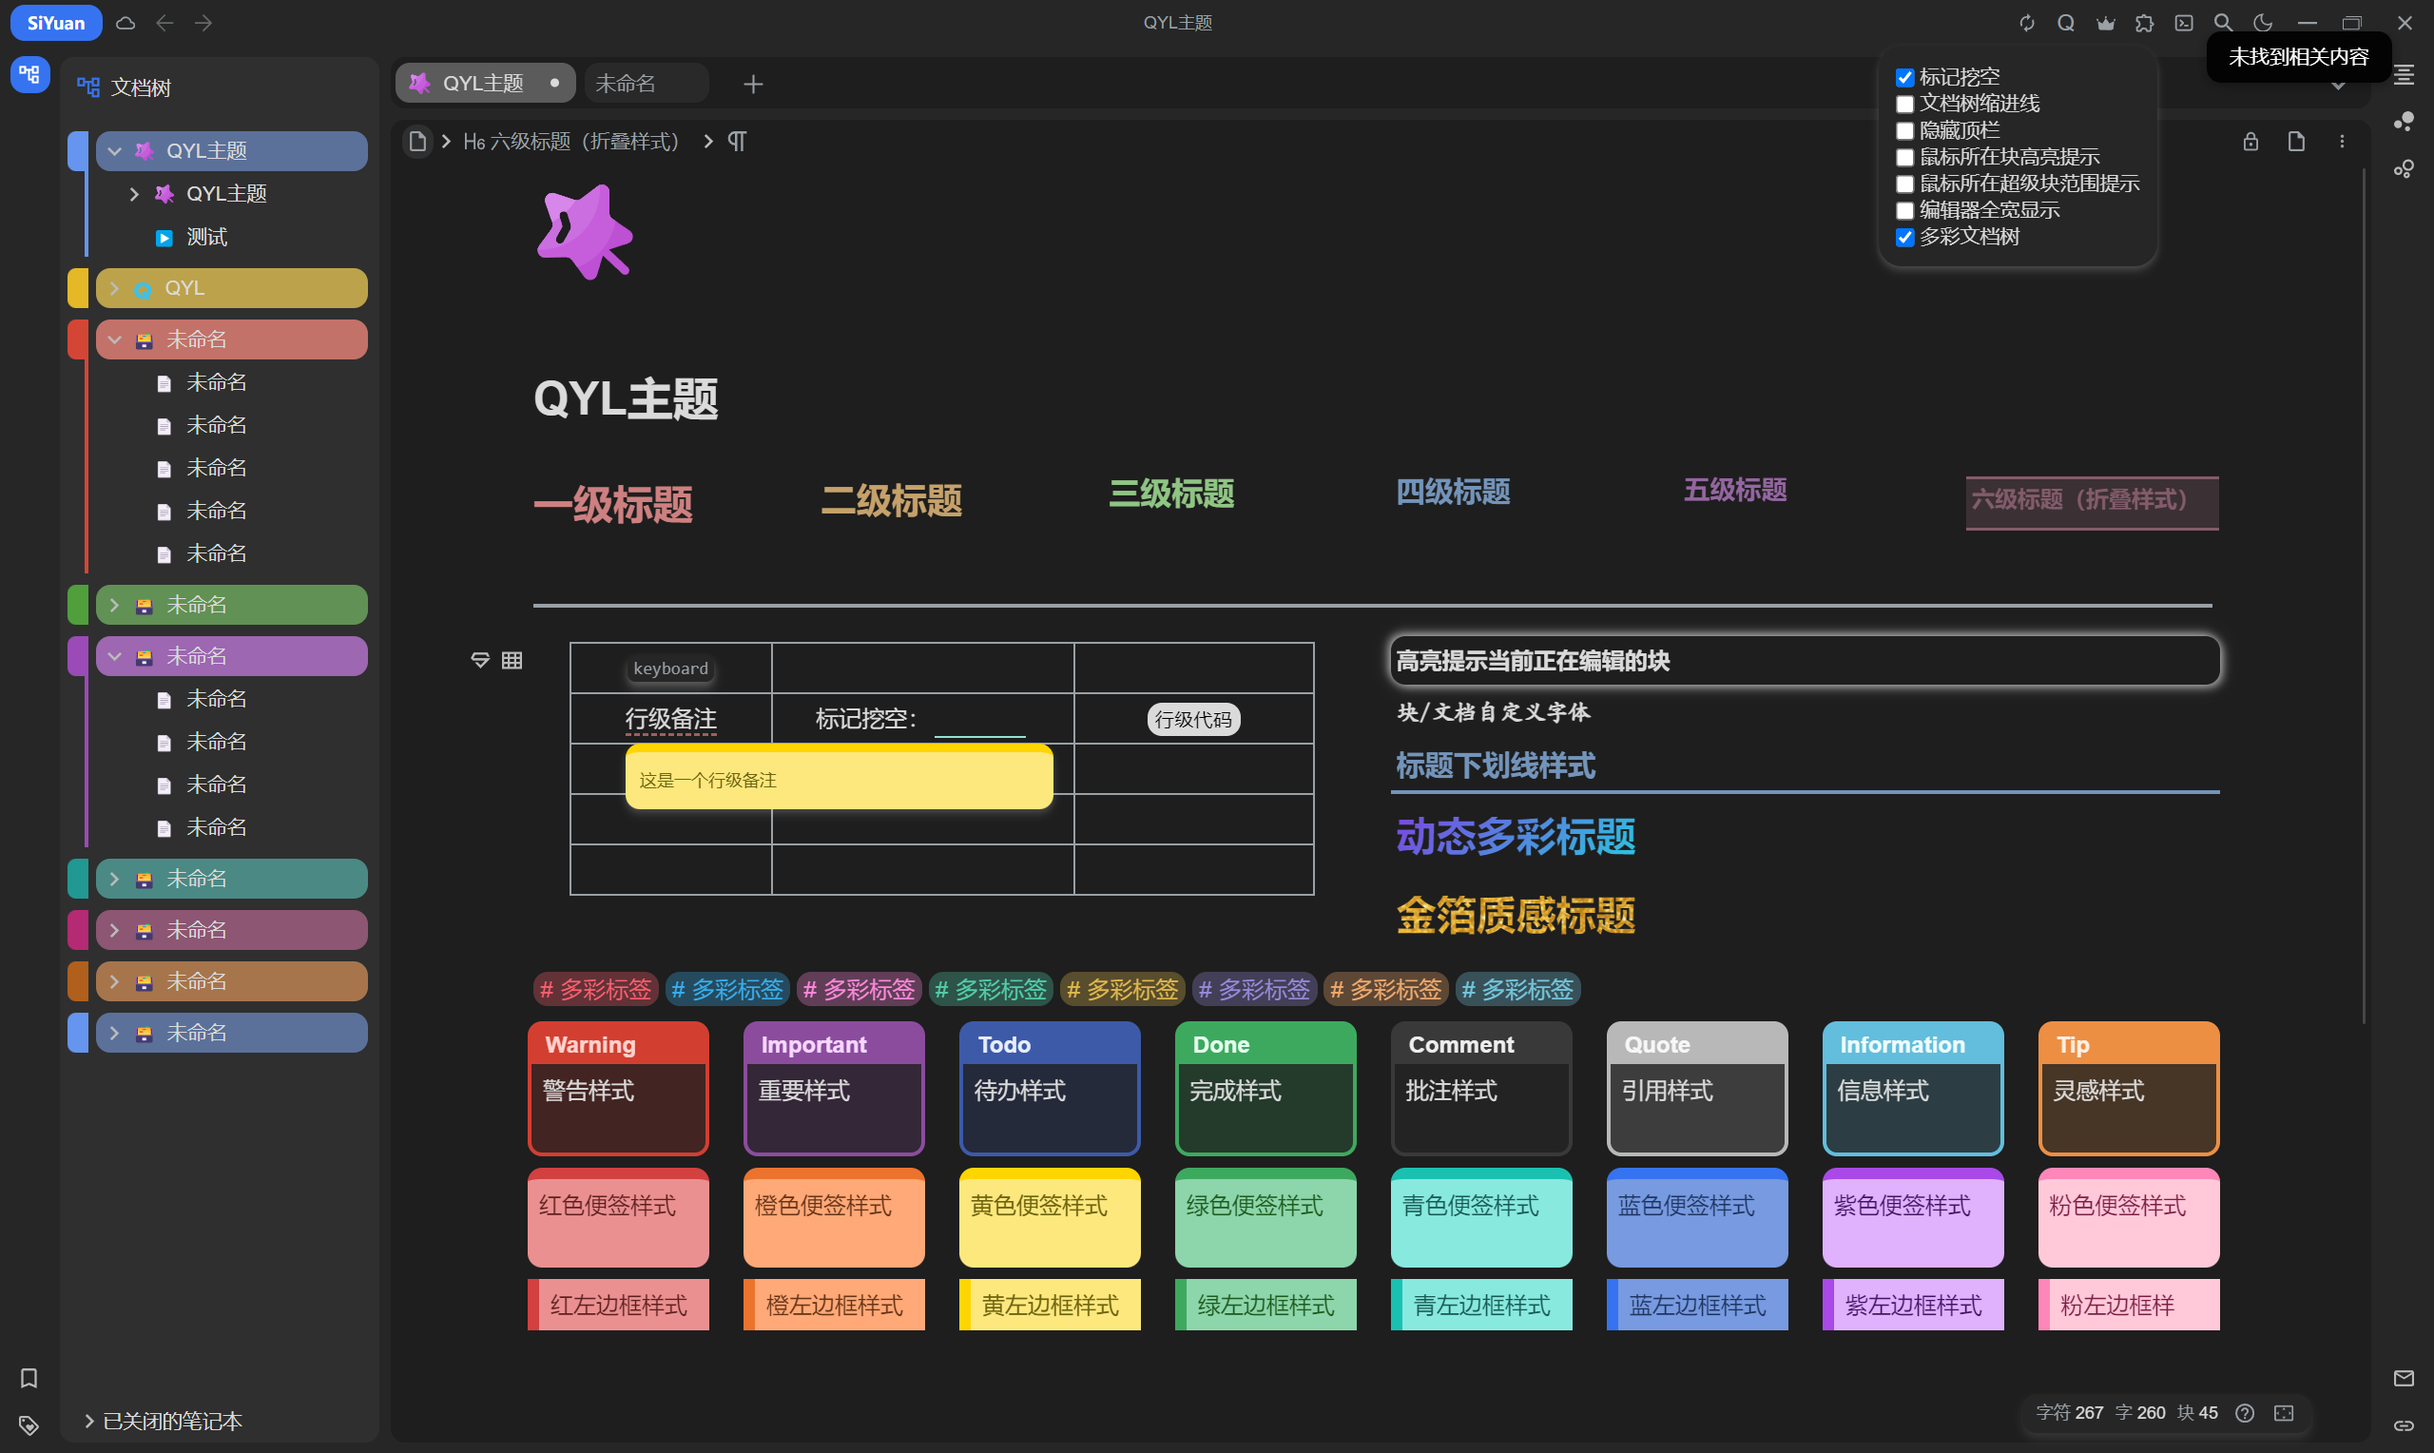
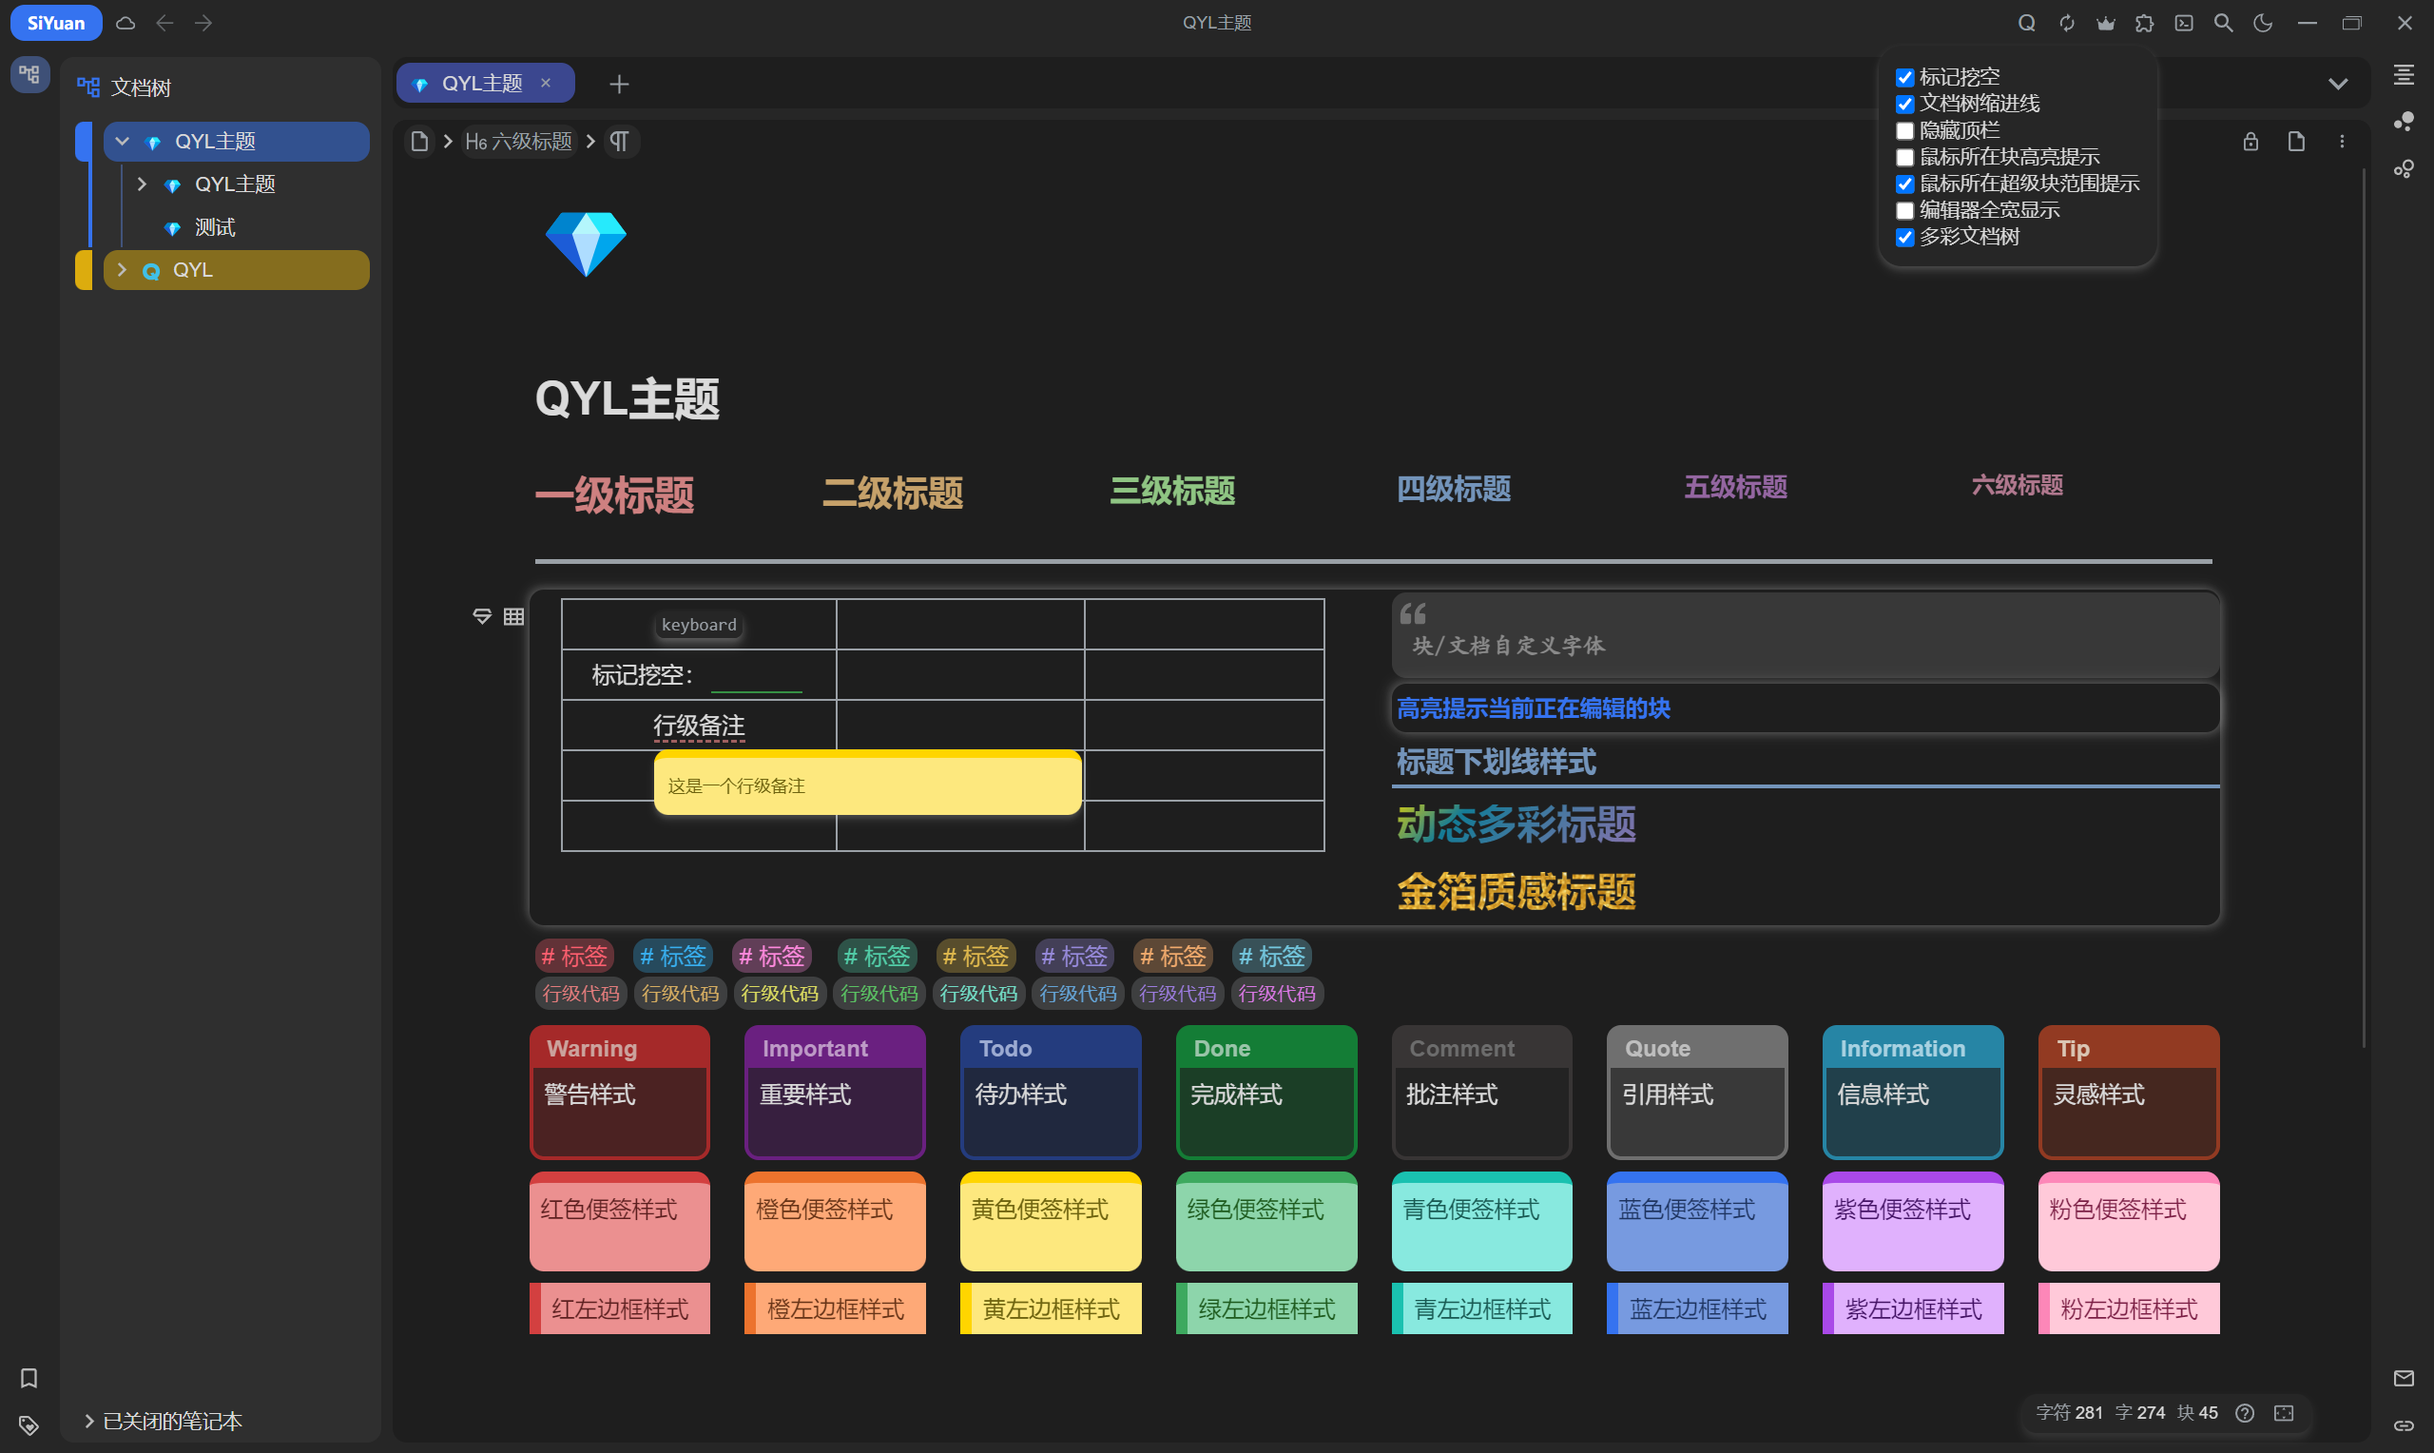
Add files via upload

diff --git a/theme.css b/theme.css
@@ -17,9 +17,9 @@
     --b3-protyle-inline-mark-background: rgba(60, 172, 78, 0.8);/* 标记色 */
     --hovercurrent: rgba(131, 129, 255, 0.5);
     --b3-theme-filetree: rgba(84, 84, 84, 0.2);
-    --b3-protyle-inline-link-color: rgb(124, 166, 215);
-    --b3-protyle-inline-blockref-color: rgb(180, 149, 195);
-    --b3-protyle-inline-fileref-color: rgb(122, 175, 122);
+    --b3-protyle-inline-link-color: rgb(88, 154, 229);
+    --b3-protyle-inline-blockref-color: rgb(170, 117, 197);
+    --b3-protyle-inline-fileref-color: rgb(83, 183, 83);
     --b3-list-icon-hover: rgba(85, 121, 200, 0.5);
     --b3-toolbar-hover: rgba(85, 121, 200, 0.5);
     --b3-theme-background-light: rgba(85, 121, 200, 0.5);
@@ -57,6 +57,19 @@
     --b3-width-transition: width .1s cubic-bezier(0, 0, .1, 1) 0ms;
     --b3-color-transition: color .1s cubic-bezier(0, 0, .1, 1) 0ms;
     --b3-background-transition: background 10ms ease-in 0s;
+
+    /* PDF */
+    --b3-pdf-selection: #94ff71;
+    --sidebar-width: 200px;
+    --b3-pdf-offset: 0;
+    --b3-pdf-background1: rgb(255, 195, 195);
+    --b3-pdf-background2: #ffcba5;
+    --b3-pdf-background3: #ffda83;
+    --b3-pdf-background4: #b1eda2;
+    --b3-pdf-background5: #85efe6;
+    --b3-pdf-background6: #a3d3ff;
+    --b3-pdf-background7: #f3c5ff;
+    --b3-pdf-dark: #292a2b;
 }
 
 /* 斜杠菜单展开 */
@@ -899,12 +912,14 @@ li.b3-list-item.b3-list-item--hide-action[data-subtype="h6"] .b3-list-item__grap
     border-radius: var(--b3-border-radius);
 }
 .protyle-wysiwyg[data-readonly=true] .av .av__celltext--url, .av__celltext.av__celltext--url, .av__celltext--url.b3-chip {
-    background-color: rgba(72, 142, 132, 0.2);
-    color: #488e84;
+    background-color: rgba(20, 159, 138, 0.4);
+    color: #a0cbcc;
     border-bottom: none;
 }
 .protyle-wysiwyg[data-readonly=true] .av .av__celltext--url:hover, .av__celltext.av__celltext--url:hover, .av__celltext--url.b3-chip:hover {
-    background-color: rgba(72, 142, 132, 0.5);
+    background-color: rgba(144, 220, 207, 0.8);
+    color: #004142;
+    transition: 0.1s;
 }
 .block__icon[data-type="av-add"] {
     margin-top: 8px;
@@ -1036,6 +1051,146 @@ li.b3-list-item.b3-list-item--hide-action[data-subtype="h6"] .b3-list-item__grap
 .protyle-wysiwyg [data-node-id][custom-h-style="下划线"] {
     border-radius: 0px;
     border-bottom: 3px solid;
+}
+[custom-h-style="下划线"] [data-type="NodeHeading"] {
+    border-radius: 0px;
+    border-bottom: 3px solid;
+}
+.protyle-wysiwyg [custom-h-style="层级"].h1:before,
+.protyle-wysiwyg [data-node-id][custom-h-style="层级"].h1:before {
+    content: "";
+    position: absolute;
+    left: -13px;
+    top: 16px;
+    width: 100%;
+    height: 100%;
+    background: url('img/一级标题.svg');
+    background-repeat: no-repeat;
+    background-size: 8px 8px;
+}
+[custom-h-style="层级"] [data-type="NodeHeading"].h1:before {
+    content: "";
+    position: absolute;
+    left: -13px;
+    top: 16px;
+    width: 100%;
+    height: 100%;
+    background: url('img/一级标题.svg');
+    background-repeat: no-repeat;
+    background-size: 8px 8px;
+}
+.protyle-wysiwyg [custom-h-style="层级"].h2:before,
+.protyle-wysiwyg [data-node-id][custom-h-style="层级"].h2:before {
+    content: "";
+    position: absolute;
+    left: -25px;
+    top: 1px;
+    width: 100%;
+    height: 100%;
+    background: url('img/二级标题.svg');
+    background-repeat: no-repeat;
+    background-size: 35px 35px;
+}
+[custom-h-style="层级"] [data-type="NodeHeading"].h2:before {
+    content: "";
+    position: absolute;
+    left: -25px;
+    top: 1px;
+    width: 100%;
+    height: 100%;
+    background: url('img/二级标题.svg');
+    background-repeat: no-repeat;
+    background-size: 35px 35px;
+}
+.protyle-wysiwyg [custom-h-style="层级"].h3:before,
+.protyle-wysiwyg [data-node-id][custom-h-style="层级"].h3:before {
+    content: "";
+    position: absolute;
+    left: -20px;
+    top: 5px;
+    width: 100%;
+    height: 100%;
+    background: url('img/三级标题.svg');
+    background-repeat: no-repeat;
+    background-size: 25px 25px;
+}
+[custom-h-style="层级"] [data-type="NodeHeading"].h3:before {
+    content: "";
+    position: absolute;
+    left: -20px;
+    top: 5px;
+    width: 100%;
+    height: 100%;
+    background: url('img/三级标题.svg');
+    background-repeat: no-repeat;
+    background-size: 25px 25px;
+}
+.protyle-wysiwyg [custom-h-style="层级"].h4:before,
+.protyle-wysiwyg [data-node-id][custom-h-style="层级"].h4:before {
+    content: "";
+    position: absolute;
+    left: -17px;
+    top: 8px;
+    width: 100%;
+    height: 100%;
+    background: url('img/四级标题.svg');
+    background-repeat: no-repeat;
+    background-size: 15px 15px;
+}
+[custom-h-style="层级"] [data-type="NodeHeading"].h4:before {
+    content: "";
+    position: absolute;
+    left: -17px;
+    top: 8px;
+    width: 100%;
+    height: 100%;
+    background: url('img/四级标题.svg');
+    background-repeat: no-repeat;
+    background-size: 15px 15px;
+}
+.protyle-wysiwyg [custom-h-style="层级"].h5:before,
+.protyle-wysiwyg [data-node-id][custom-h-style="层级"].h5:before {
+    content: "";
+    position: absolute;
+    left: -20px;
+    width: 100%;
+    height: 100%;
+    background: url('img/五级标题.svg');
+    background-repeat: no-repeat;
+    background-size: 20px 20px;
+}
+[custom-h-style="层级"] [data-type="NodeHeading"].h5:before {
+    content: "";
+    position: absolute;
+    left: -20px;
+    width: 100%;
+    height: 100%;
+    background: url('img/五级标题.svg');
+    background-repeat: no-repeat;
+    background-size: 20px 20px;
+}
+.protyle-wysiwyg [custom-h-style="层级"].h6:before,
+.protyle-wysiwyg [data-node-id][custom-h-style="层级"].h6:before {
+    content: "";
+    position: absolute;
+    left: -18px;
+    top: 6px;
+    width: 100%;
+    height: 100%;
+    background: url('img/六级标题.svg');
+    background-repeat: no-repeat;
+    background-size: 15px 15px;
+}
+[custom-h-style="层级"] [data-type="NodeHeading"].h6:before {
+    content: "";
+    position: absolute;
+    left: -18px;
+    top: 6px;
+    width: 100%;
+    height: 100%;
+    background: url('img/六级标题.svg');
+    background-repeat: no-repeat;
+    background-size: 15px 15px;
 }
 
 /* 自定义块属性background */
@@ -1423,3 +1578,117 @@ span[data-type~=mark],mark {
     background: var(--hovercurrent);
     transition: 0.3s;
 }
+
+/* 数据库chip颜色 */
+.custom-attr__avvalue .b3-chip[style*="color1)"], 
+.av__cell .b3-chip[style*="color1)"], 
+.av__panel .b3-chip[style*="color1)"], 
+[data-name="av-col-option"] .color__square[style*="color1)"], 
+.b3-menu__label .b3-chip[data-color="1"] {
+    color: rgb(215, 215, 215) !important;
+    background-color: rgba(255, 39, 39, 0.4) !important;
+}
+.custom-attr__avvalue .b3-chip[style*="color2)"], 
+.av__cell .b3-chip[style*="color2)"], 
+.av__panel .b3-chip[style*="color2)"], 
+[data-name="av-col-option"] .color__square[style*="color2)"], 
+.b3-menu__label .b3-chip[data-color="2"] {
+    color: rgb(215, 215, 215) !important;
+    background-color: rgba(255, 134, 64, 0.4) !important;
+}
+.custom-attr__avvalue .b3-chip[style*="color3)"], 
+.av__cell .b3-chip[style*="color3)"], 
+.av__panel .b3-chip[style*="color3)"], 
+[data-name="av-col-option"] .color__square[style*="color3)"], 
+.b3-menu__label .b3-chip[data-color="3"] {
+    color: rgb(215, 215, 215) !important;
+    background-color: rgba(48, 152, 255, 0.4) !important;
+}
+.custom-attr__avvalue .b3-chip[style*="color4)"], 
+.av__cell .b3-chip[style*="color4)"], 
+.av__panel .b3-chip[style*="color4)"], 
+[data-name="av-col-option"] .color__square[style*="color4)"], 
+.b3-menu__label .b3-chip[data-color="4"] {
+    color: rgb(215, 215, 215) !important;
+    background-color: rgba(56, 255, 69, 0.3) !important;
+}
+.custom-attr__avvalue .b3-chip[style*="color5)"], 
+.av__cell .b3-chip[style*="color5)"], 
+.av__panel .b3-chip[style*="color5)"], 
+[data-name="av-col-option"] .color__square[style*="color5)"], 
+.b3-menu__label .b3-chip[data-color="5"] {
+    color: rgb(59, 59, 59) !important;
+    background-color: rgba(239, 239, 239, 0.8) !important;
+}
+.custom-attr__avvalue .b3-chip[style*="color6)"], 
+.av__cell .b3-chip[style*="color6)"], 
+.av__panel .b3-chip[style*="color6)"], 
+[data-name="av-col-option"] .color__square[style*="color6)"], 
+.b3-menu__label .b3-chip[data-color="6"] {
+    color: rgb(215, 215, 215) !important;
+    background-color: rgba(170, 125, 255, 0.4) !important;
+}
+.custom-attr__avvalue .b3-chip[style*="color7)"], 
+.av__cell .b3-chip[style*="color7)"], 
+.av__panel .b3-chip[style*="color7)"], 
+[data-name="av-col-option"] .color__square[style*="color7)"], 
+.b3-menu__label .b3-chip[data-color="7"] {
+    color: rgb(215, 215, 215) !important;
+    background-color: rgba(255, 79, 249, 0.3) !important;
+}
+.custom-attr__avvalue .b3-chip[style*="color8)"], 
+.av__cell .b3-chip[style*="color8)"], 
+.av__panel .b3-chip[style*="color8)"], 
+[data-name="av-col-option"] .color__square[style*="color8)"], 
+.b3-menu__label .b3-chip[data-color="8"] {
+    color: rgb(215, 215, 215) !important;
+    background-color: rgba(242, 255, 59, 0.5) !important;
+}
+.custom-attr__avvalue .b3-chip[style*="color9)"], 
+.av__cell .b3-chip[style*="color9)"], 
+.av__panel .b3-chip[style*="color9)"], 
+[data-name="av-col-option"] .color__square[style*="color9)"], 
+.b3-menu__label .b3-chip[data-color="9"] {
+    color: rgb(215, 215, 215) !important;
+    background-color: rgba(93, 109, 255, 0.5) !important;
+}
+.custom-attr__avvalue .b3-chip[style*="color10)"], 
+.av__cell .b3-chip[style*="color10)"], 
+.av__panel .b3-chip[style*="color10)"], 
+[data-name="av-col-option"] .color__square[style*="color10)"], 
+.b3-menu__label .b3-chip[data-color="10"] {
+    color: rgb(215, 215, 215) !important;
+    background-color: rgba(75, 216, 255, 0.5) !important;
+}
+.custom-attr__avvalue .b3-chip[style*="color11)"], 
+.av__cell .b3-chip[style*="color11)"], 
+.av__panel .b3-chip[style*="color11)"], 
+[data-name="av-col-option"] .color__square[style*="color11)"], 
+.b3-menu__label .b3-chip[data-color="11"] {
+    color: rgb(215, 215, 215) !important;
+    background-color: rgba(255, 79, 161, 0.5) !important;
+}
+.custom-attr__avvalue .b3-chip[style*="color12)"], 
+.av__cell .b3-chip[style*="color12)"], 
+.av__panel .b3-chip[style*="color12)"], 
+[data-name="av-col-option"] .color__square[style*="color12)"], 
+.b3-menu__label .b3-chip[data-color="12"] {
+    color: rgb(215, 215, 215) !important;
+    background-color: rgba(164, 255, 73, 0.5) !important;
+}
+.custom-attr__avvalue .b3-chip[style*="color13)"], 
+.av__cell .b3-chip[style*="color13)"], 
+.av__panel .b3-chip[style*="color13)"], 
+[data-name="av-col-option"] .color__square[style*="color13)"], 
+.b3-menu__label .b3-chip[data-color="13"] {
+    color: rgb(215, 215, 215) !important;
+    background-color: rgb(86, 86, 86) !important;
+}
+.custom-attr__avvalue .b3-chip[style*="color14)"], 
+.av__cell .b3-chip[style*="color14)"], 
+.av__panel .b3-chip[style*="color14)"], 
+[data-name="av-col-option"] .color__square[style*="color14)"], 
+.b3-menu__label .b3-chip[data-color="14"] {
+    color: rgb(215, 215, 215) !important;
+    background-color: rgba(46, 98, 255, 0.4) !important;
+}   

diff --git a/README_zh_CN.md b/README_zh_CN.md
@@ -101,10 +101,17 @@
 |`img-border-radius`|包含图片的块/文档|`默认` `图片圆角` `图片圆润`|设置该块/该文档内图片轮廓的圆角矩形弧度|
 |`background`|任意块|`默认` `淡紫粉渐变` `蓝绿色渐变` `蓝色渐变` `红橙色渐变` `淡蓝粉渐变` `灰色渐变` `黑色渐变` `绿色渐变` `红色渐变`|设置该块的背景|
 |`visibility`|任意块|`默认` `模糊` `悬浮显示` `闪烁`|设置该块的显示效果|
-|`h-style`|标题块/文档|`默认` `多彩` `金箔` `下划线`|设置标题块/该文档所有标题块的文字效果|
+|`h-style`|标题块/文档|`默认` `多彩` `金箔` `下划线` `层级`|设置标题块/该文档所有标题块的文字效果|
 |`font-family`|任意块/文档|`默认` `宋体` `幼圆` `黑体` `微软雅黑` `新宋体` `楷体` `隶书` `仿宋` `华文宋体` `华文中宋` `华文仿宋` `华文彩云` `华文新魏` `华文楷体` `华文琥珀` `华文细黑` `华文行楷` `华文隶书` `方正姚体` `方正舒体` `思源宋体` `思源黑体` `苹方` `Times New Roman`|设置该块/文档的字体（本机存在的字体才生效）|
 |`height`|任意块|`默认` `50` `100` `150` `200`|设置该块的最大显示高度（超出部分通过滚动条查看）|
 |`blankblock-remind`|任意块/文档|`默认` `开启`|显示该块/该文档空块的“空空如也”提示|
+
+## v1.0.5
+* 优化PDF标注颜色
+* 优化数据库chip颜色
+* 修复文档自定义属性`h-style="下划线"`未生效的问题
+* `h-style`自定义属性增加`层级`样式，可使标题前出现图标以提示该标题的层级
+
 ## v1.0.4
 * 优化部分配色
 
